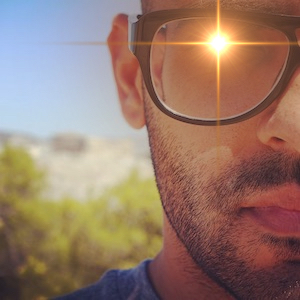
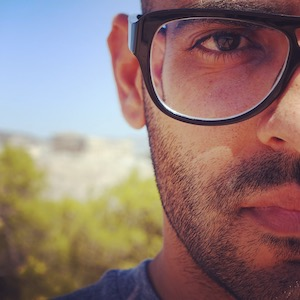
dark mode + laser eyes, top margin

Changed region(s): [[0.15, 0.0, 1.0, 0.57]]

diff --git a/style.css b/style.css
@@ -26,10 +26,17 @@ img {
     display: flex; flex-direction: column; justify-content: center;
 }
 
+#avatar #avatar-se { display: block;}
+#avatar #avatar-le { display: none; }
+@media (prefers-color-scheme: dark) {
+    #avatar #avatar-se { display: none;}
+    #avatar #avatar-le { display: block; }
+}
+
 #avatar {
     display: flex; justify-content: center;
 
-    margin-top: 20px;
+    margin-top: 30px;
 }
 #avatar img {
     border-radius: 50%;

diff --git a/index.html b/index.html
@@ -31,7 +31,8 @@
         <div id="container">
             <div id="avatar">
                 <a href="https://fundalytica.com" target="_blank">
-                    <img src="images/fotiosdotcom.jpg" />
+                    <img id="avatar-se" src="images/fotiosdotcom.jpg" />
+                    <img id="avatar-le" src="images/fotiosdotcom-le.jpg" />
                 </a>
             </div>
 
